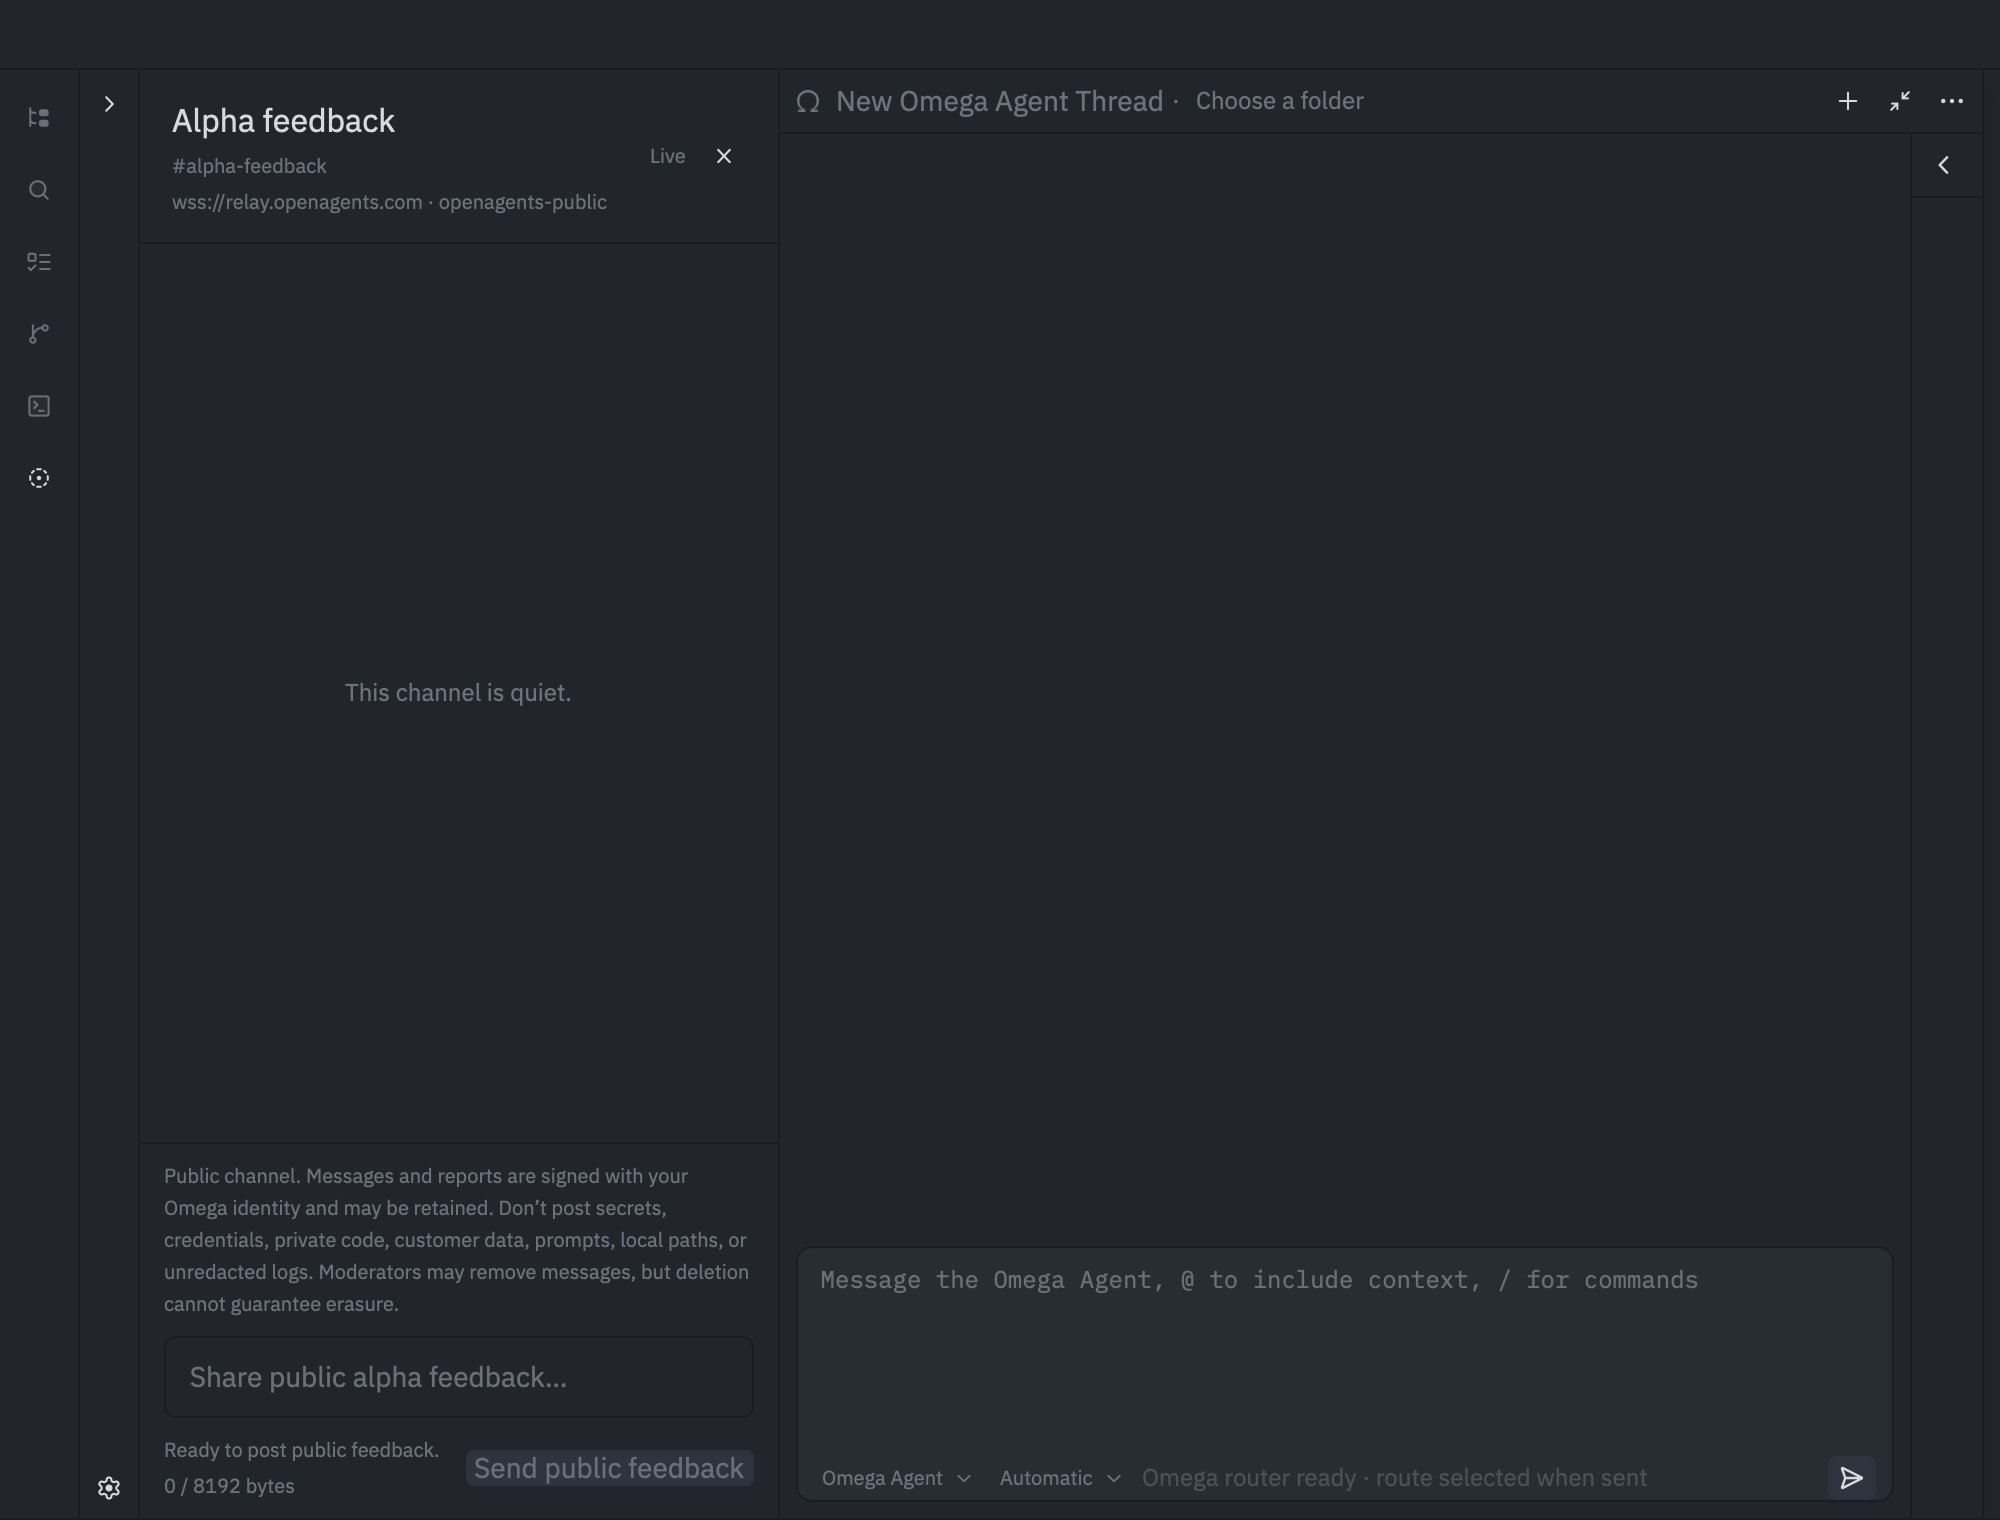
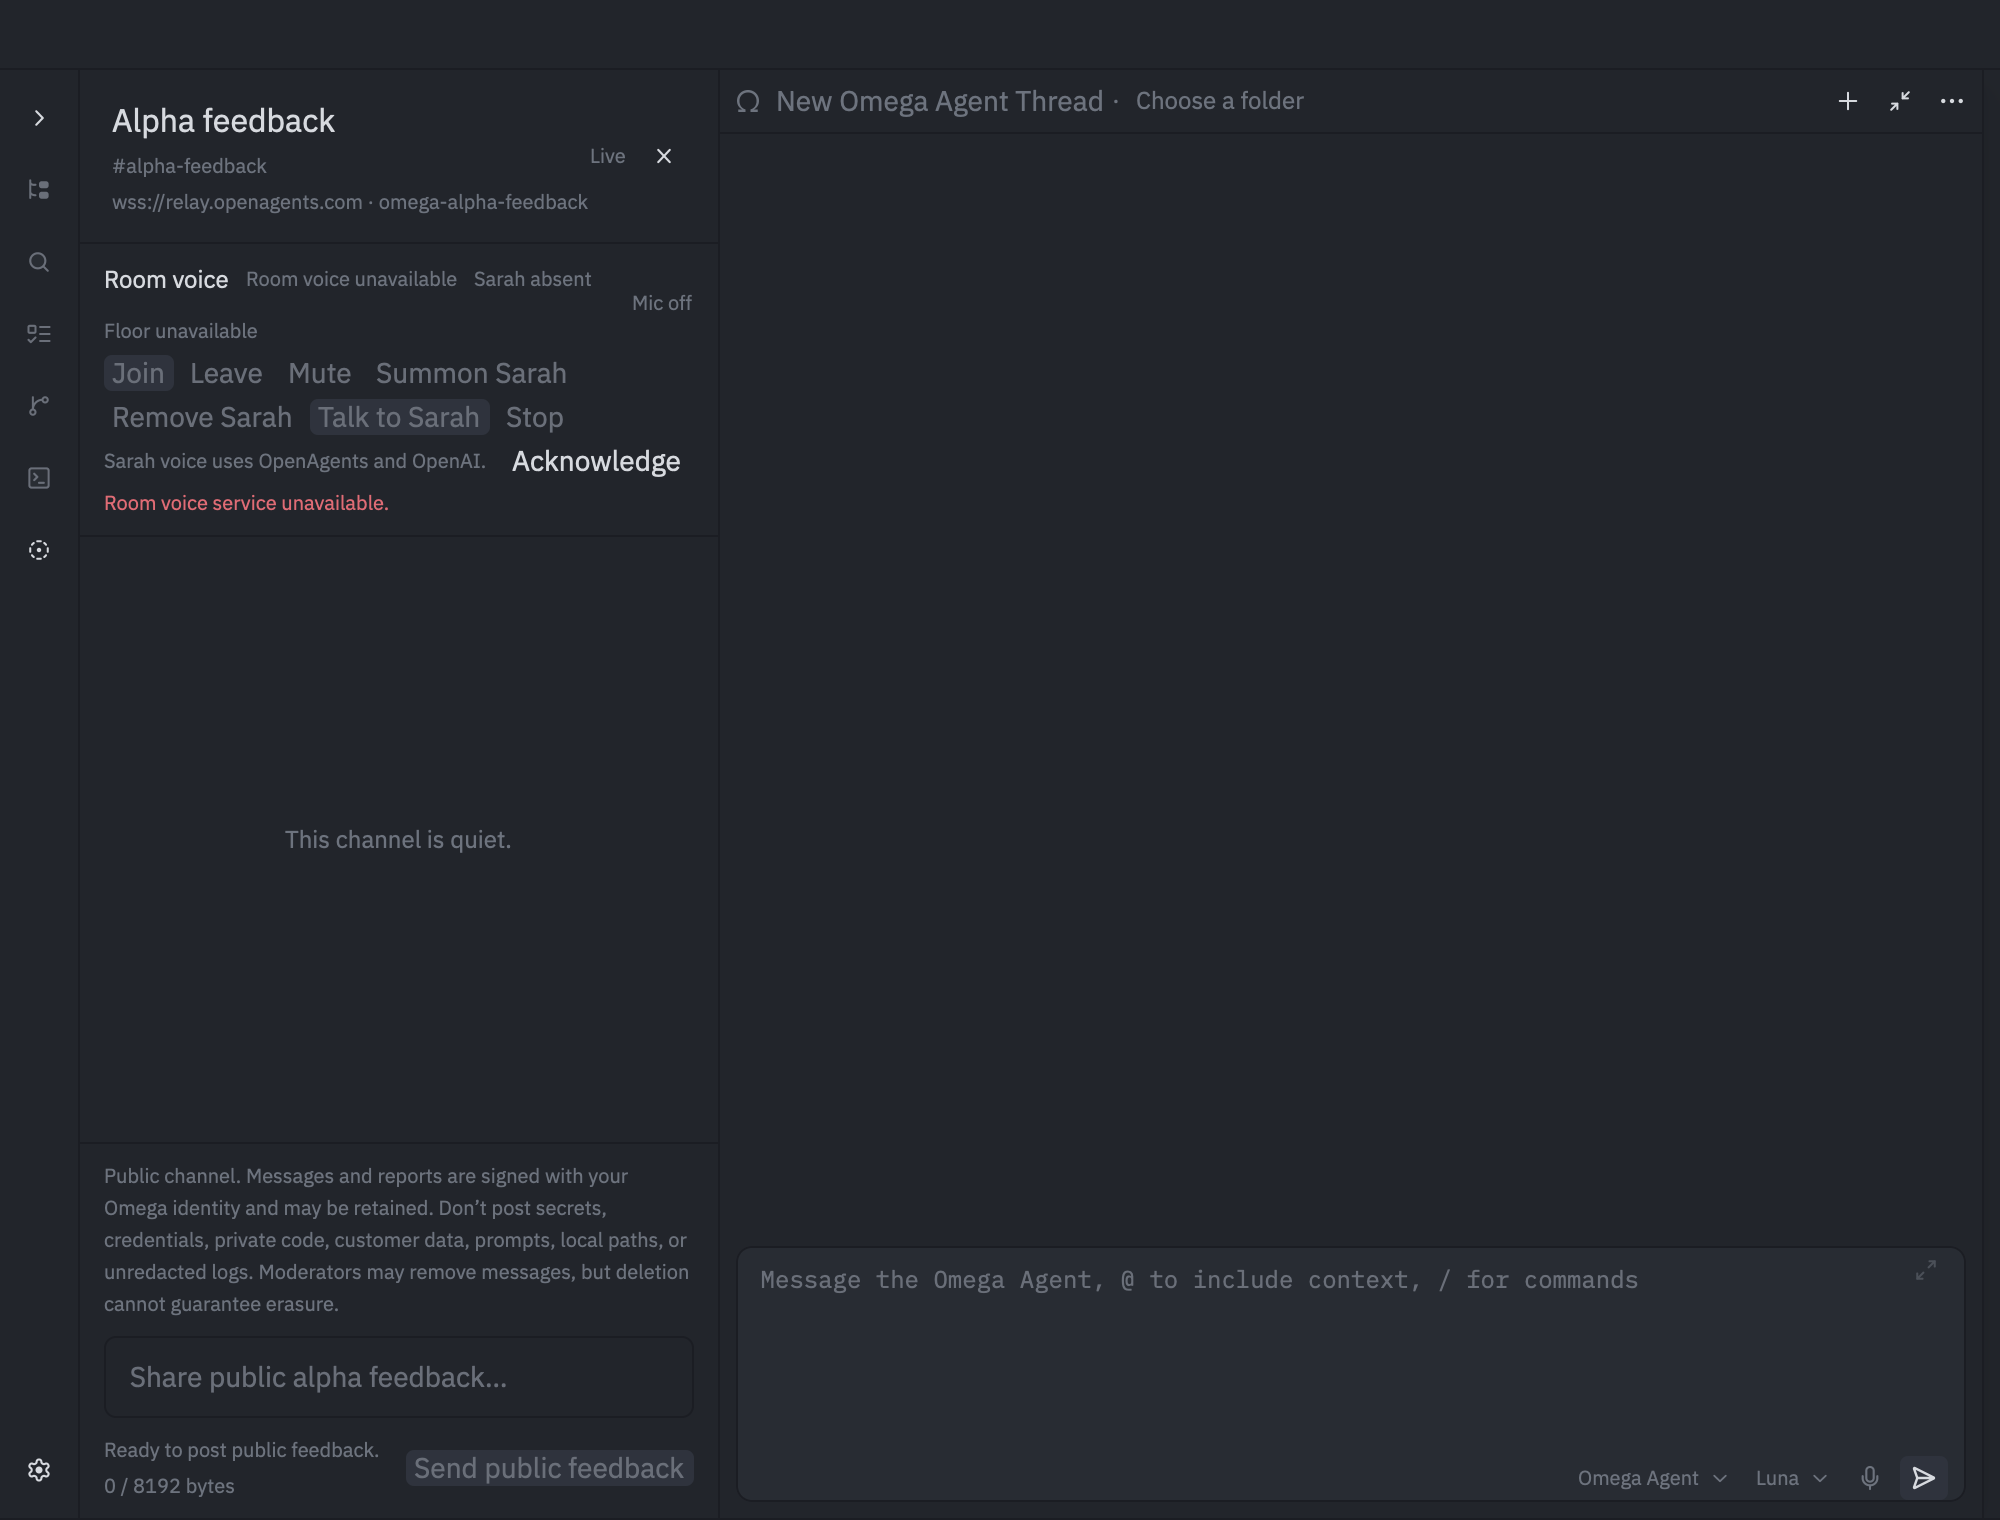
Add deterministic 0.2.0 visual baselines

diff --git a/crates/omega/src/visual_test_runner.rs b/crates/omega/src/visual_test_runner.rs
@@ -755,7 +755,7 @@ fn workbench_fixture_for_scene(name: &str) -> Result<WorkbenchScene> {
         } else if identity_scene {
             for surface in &mut scene.surfaces {
                 surface.available = name != "omega_workbench_identity_offline_error"
-                    || surface.id == WorkSurfaceId::Plan;
+                    || matches!(surface.id, WorkSurfaceId::Terminal | WorkSurfaceId::Plan);
             }
             scene.project = Some(ProjectFixture {
                 id: "visual-project".into(),
@@ -4889,7 +4889,7 @@ fn run_omega_workbench_shell_visual_capture_in_window(
         // actually appear before clearing, or the clear races the error and
         // loses. The thread reads idle both before the turn starts and after
         // it fails, so idleness cannot stand in for settlement here.
-        for _ in 0..512 {
+        for _ in 0..12288 {
             cx.run_until_parked();
             if cx.read(|cx| fixture_acp_thread.read(cx).plan_interruption().is_some()) {
                 break;
@@ -4897,11 +4897,21 @@ fn run_omega_workbench_shell_visual_capture_in_window(
             cx.advance_clock(Duration::from_millis(10));
             std::thread::sleep(Duration::from_millis(1));
         }
+        anyhow::ensure!(
+            cx.read(|cx| fixture_acp_thread.read(cx).plan_interruption().is_some()),
+            "workbench fixture turn did not reach its deterministic terminal failure"
+        );
         cx.update(|cx| {
             fixture_acp_thread.update(cx, |thread, cx| {
                 thread.set_plan_interruption_for_tests(None, cx);
             });
+            panel.update(cx, |panel, cx| {
+                panel.dismiss_all_notifications(cx);
+            });
         });
+        workspace_window.update(cx, |workspace, _window, cx| {
+            workspace.clear_all_notifications(cx);
+        })?;
         cx.run_until_parked();
     }
 
@@ -4923,6 +4933,15 @@ fn run_omega_workbench_shell_visual_capture_in_window(
         }
         return Err(error);
     }
+    cx.update(|cx| {
+        panel.update(cx, |panel, cx| {
+            panel.dismiss_all_notifications(cx);
+        });
+    });
+    workspace_window.update(cx, |workspace, _window, cx| {
+        workspace.clear_all_notifications(cx);
+    })?;
+    cx.run_until_parked();
     let result = run_visual_test(scene_name, workspace_window.into(), cx, update_baseline);
     if is_workbench_review_scene(scene_name) {
         let cleanup_result = teardown_workbench_review(&panel, cx);
@@ -9166,6 +9185,30 @@ fn run_omega_tester_channel_visual_tests(
 
     const FIRST_LAUNCH_SCENE: &str = "omega_tester_channel_first_launch";
     const RELAY_UNAVAILABLE_SCENE: &str = "omega_tester_channel_relay_unavailable";
+    fn require_fail_closed_room(probe: &mut SemanticProbe<'_>) -> Result<()> {
+        probe.require_visible("omega-public-channel-sarah")?;
+        probe.require_visible("omega-public-channel-sarah-controls")?;
+        probe.require_visible("omega-room-sarah-disclosure-copy")?;
+        probe.require_visible("omega-room-sarah-failure")?;
+        for (element_id, label) in [
+            ("omega-room-voice-join", "Join"),
+            ("omega-room-voice-leave", "Leave"),
+            ("omega-room-voice-mute", "Mute"),
+            ("omega-room-sarah-summon", "Summon Sarah"),
+            ("omega-room-sarah-remove", "Remove Sarah"),
+            ("omega-room-sarah-talk", "Talk to Sarah"),
+            ("omega-room-sarah-stop", "Stop"),
+        ] {
+            probe.require_accessible(element_id, "Button", label)?;
+            probe.require_accessibility_property(
+                element_id,
+                "disabled",
+                serde_json::Value::Bool(true),
+            )?;
+        }
+        Ok(())
+    }
+
     if !workbench_any_selected(&[FIRST_LAUNCH_SCENE, RELAY_UNAVAILABLE_SCENE]) {
         return Ok(Vec::new());
     }
@@ -9212,6 +9255,7 @@ fn run_omega_tester_channel_visual_tests(
         let mut selected_probe = SemanticProbe::new(&selected_snapshot);
         selected_probe.require_visible("omega.public.channel.dock")?;
         selected_probe.require_visible("omega-tester-channel-composer")?;
+        require_fail_closed_room(&mut selected_probe)?;
         selected_probe.require_absent("omega-tester-channel-relay-fallback")?;
         record_workbench_semantic_checks(FIRST_LAUNCH_SCENE, selected_probe.into_checks());
         record_workbench_semantic_check(FIRST_LAUNCH_SCENE, "public-privacy-composer-visible");
@@ -9243,6 +9287,7 @@ fn run_omega_tester_channel_visual_tests(
         let mut outage_probe = SemanticProbe::new(&outage_snapshot);
         outage_probe.require_visible("omega-tester-channel-relay-fallback")?;
         outage_probe.require_visible("omega-tester-channel-composer")?;
+        require_fail_closed_room(&mut outage_probe)?;
         outage_probe.require_accessible(
             "omega-tester-channel-retry-relay",
             "Button",
@@ -9646,11 +9691,7 @@ fn run_omega_agent_visual_tests_inner(
     if capture_sealed_front_door {
         let snapshot = cx.debug_render_snapshot(workspace_window)?;
         let mut probe = SemanticProbe::new(&snapshot);
-        probe.require_accessible(
-            "omega-new-conversation-route-override-trigger",
-            "Button",
-            "Automatic",
-        )?;
+        probe.require_accessible("omega-composer-executor-trigger", "Button", "Omega Agent")?;
         record_workbench_semantic_checks("omega_front_door_typing", probe.into_checks());
     }
 

diff --git a/crates/omega_deltas/src/omega_deltas.rs b/crates/omega_deltas/src/omega_deltas.rs
@@ -204,6 +204,7 @@ pub const ENFORCED_DELTAS: &[&str] = &[
     "OMEGA-DELTA-0213",
     "OMEGA-DELTA-0214",
     "OMEGA-DELTA-0215",
+    "OMEGA-DELTA-0216",
 ];
 
 /// OMEGA-DELTA-0204. Every control the composer's bar offers, written twice:
@@ -23215,6 +23216,8 @@ mod tests {
             "false",
             "stale_replay_and_unverified_floor_holder_fail_closed",
             "removal_role_loss_expiry_and_server_stop_revoke_every_control",
+            "microphone_status_never_claims_an_unjoined_room_is_live",
+            "\"Mic off\"",
         ] {
             assert!(
                 model.contains(required),
@@ -23232,6 +23235,8 @@ mod tests {
             "omega-room-sarah-remove",
             "omega-room-sarah-talk",
             "omega-room-sarah-stop",
+            "omega-room-sarah-disclosure-copy",
+            "omega-room-sarah-failure",
             ".tab_index(7isize)",
             "Sarah voice uses OpenAgents and OpenAI.",
             "community_sarah_controls_are_compact_and_fail_closed_until_verified",
@@ -24204,6 +24209,37 @@ mod tests {
                 "OMEGA-DELTA-0191: --omega-send lost `{required}`"
             );
         }
+    }
+
+    /// OMEGA-DELTA-0216. The visual lane's launcher and renamed application
+    /// package are one contract. This check runs in the normal preflight, so a
+    /// future package rename cannot turn every visual invocation into silence.
+    #[test]
+    fn workbench_visual_launcher_tracks_the_application_package() {
+        let launcher = read_repository_file("script/omega-workbench-proof");
+        let application_manifest = read_repository_file("crates/omega/Cargo.toml");
+        for required in [
+            "cargo build --release -p omega --bin zed_visual_test_runner --features visual-tests",
+            "OMEGA_WORKBENCH_LIST_SCENES=1",
+            "OMEGA_WORKBENCH_LIST_FORMAT=\"$list_format\"",
+        ] {
+            assert!(
+                launcher.contains(required),
+                "OMEGA-DELTA-0216: the workbench visual launcher lost `{required}`"
+            );
+        }
+        assert!(
+            application_manifest.contains("name = \"omega\""),
+            "OMEGA-DELTA-0216: the application package was renamed without updating the visual launcher"
+        );
+
+        let harness =
+            read_repository_file("crates/omega_workbench_harness/src/omega_workbench_harness.rs");
+        assert_eq!(
+            harness.matches("        name: \"omega_").count(),
+            95,
+            "OMEGA-DELTA-0216: --list no longer has the reviewed 95-scene catalog"
+        );
     }
 
     /// OMEGA-DELTA-0191. The activity rail is generated from one exact

diff --git a/crates/agent_ui/src/omega_public_channel_view.rs b/crates/agent_ui/src/omega_public_channel_view.rs
@@ -1738,7 +1738,7 @@ impl PublicChannelView {
                             ),
                     )
                     .child(
-                        Label::new(if state.muted { "Muted" } else { "Mic on" })
+                        Label::new(state.microphone_label())
                             .size(LabelSize::XSmall)
                             .color(Color::Muted),
                     ),
@@ -1829,9 +1829,14 @@ impl PublicChannelView {
                     .min_w_0()
                     .gap_2()
                     .child(
-                        Label::new("Sarah voice uses OpenAgents and OpenAI.")
-                            .size(LabelSize::XSmall)
-                            .color(Color::Muted),
+                        div()
+                            .id("omega-room-sarah-disclosure-copy")
+                            .debug_selector(|| "omega-room-sarah-disclosure-copy".to_string())
+                            .child(
+                                Label::new("Sarah voice uses OpenAgents and OpenAI.")
+                                    .size(LabelSize::XSmall)
+                                    .color(Color::Muted),
+                            ),
                     )
                     .child(
                         div()
@@ -1861,9 +1866,14 @@ impl PublicChannelView {
             )
             .when_some(state.failure.clone(), |this, failure| {
                 this.child(
-                    Label::new(failure)
-                        .size(LabelSize::XSmall)
-                        .color(Color::Error),
+                    div()
+                        .id("omega-room-sarah-failure")
+                        .debug_selector(|| "omega-room-sarah-failure".to_string())
+                        .child(
+                            Label::new(failure)
+                                .size(LabelSize::XSmall)
+                                .color(Color::Error),
+                        ),
                 )
             })
             .into_any_element()

diff --git a/crates/agent_ui/src/omega_public_channel_sarah.rs b/crates/agent_ui/src/omega_public_channel_sarah.rs
@@ -588,6 +588,16 @@ impl CommunitySarahRoom {
             .label(&authority.local_participant.user_ref_digest)
     }
 
+    pub fn microphone_label(&self) -> &'static str {
+        if self.lifecycle != CommunityCallLifecycle::Joined {
+            "Mic off"
+        } else if self.muted {
+            "Muted"
+        } else {
+            "Mic on"
+        }
+    }
+
     pub fn has_private_authority(&self) -> bool {
         false
     }
@@ -874,5 +884,16 @@ mod tests {
         .expect("apply authority");
         room.expire(20_000);
         assert_eq!(room.lifecycle, CommunityCallLifecycle::Failed);
+    }
+
+    #[test]
+    fn microphone_status_never_claims_an_unjoined_room_is_live() {
+        let mut room = CommunitySarahRoom::default();
+        assert_eq!(room.microphone_label(), "Mic off");
+
+        room.lifecycle = CommunityCallLifecycle::Joined;
+        assert_eq!(room.microphone_label(), "Mic on");
+        room.muted = true;
+        assert_eq!(room.microphone_label(), "Muted");
     }
 }

diff --git a/crates/omega_workbench_harness/src/omega_workbench_harness.rs b/crates/omega_workbench_harness/src/omega_workbench_harness.rs
@@ -3521,7 +3521,7 @@ pub const HERMETIC_SCENES: &[SceneSpec] = &[
     SceneSpec {
         name: "omega_workbench_identity_long_narrow",
         phase: ScenePhase::Recording,
-        viewport: ViewportFixture::new(909, 720, 2000),
+        viewport: ViewportFixture::new(879, 720, 2000),
         fixture_version: 1,
         pixel_policy: APPLE_SILICON_METAL_POLICY,
         regions: WORKBENCH_IDENTITY_REGIONS,

diff --git a/OMEGA_DELTAS.md b/OMEGA_DELTAS.md
@@ -9657,14 +9657,34 @@ revocation, and server stop clear authority and mute input.
 The 30-second speaking floor remains a canonical OpenAgents lease and LiveKit
 remains media only.
 
-**Unavailable is the current honest production state.** OpenAgents does not
-yet expose the shared-room provisioning, authenticated snapshot/update feed,
-signed Sarah presence, summon/remove path, or worker-side floor enforcement
-required to enable these controls. Hermetic authority fixtures prove the UI
-and model seam; they do not become production authority.
+**Unavailable is the current honest desktop state.** OpenAgents now exposes
+the shared-room provisioning, authenticated snapshot/update feed, signed Sarah
+presence, summon/remove path, and worker-side floor enforcement, but Omega has
+not yet consumed that production contract. Hermetic authority fixtures prove
+the UI and model seam; they do not become production authority. An unjoined or
+unavailable room says **Mic off**, never **Mic on**.
 
 - **Enforced by:** `community_room_sarah_is_verified_bounded_and_fail_closed`
   in `crates/omega_deltas`; the model tests in
   `crates/agent_ui/src/omega_public_channel_sarah.rs`; and
   `community_sarah_controls_are_compact_and_fail_closed_until_verified` in
-  `crates/agent_ui/src/omega_public_channel_view.rs`.
+  `crates/agent_ui/src/omega_public_channel_view.rs`; and both tester-channel
+  visual scenes, which require every authority-bearing room control to remain
+  disabled while the contract is unavailable.
+
+### OMEGA-DELTA-0216 — A broken visual launcher fails the ordinary preflight
+
+The hermetic visual lane was silent after the application package changed from
+`zed` to `omega`: its launcher still built the old package and exited before a
+scene, diff, or receipt existed. Baseline drift then accumulated without a red
+artifact.
+
+The launcher now builds the `omega` package and its reviewed catalog is pinned
+at 95 scenes. The ordinary `omega_deltas` preflight binds the launcher command,
+the application package name, list-mode environment, and exact catalog count.
+A later rename or unreviewed catalog change therefore fails before it can turn
+the visual lane into silence again.
+
+- **Enforced by:** `workbench_visual_launcher_tracks_the_application_package`
+  in `crates/omega_deltas`; `script/omega-workbench-proof --list`; and
+  `omega_workbench_harness::validate_scene_catalog`.
